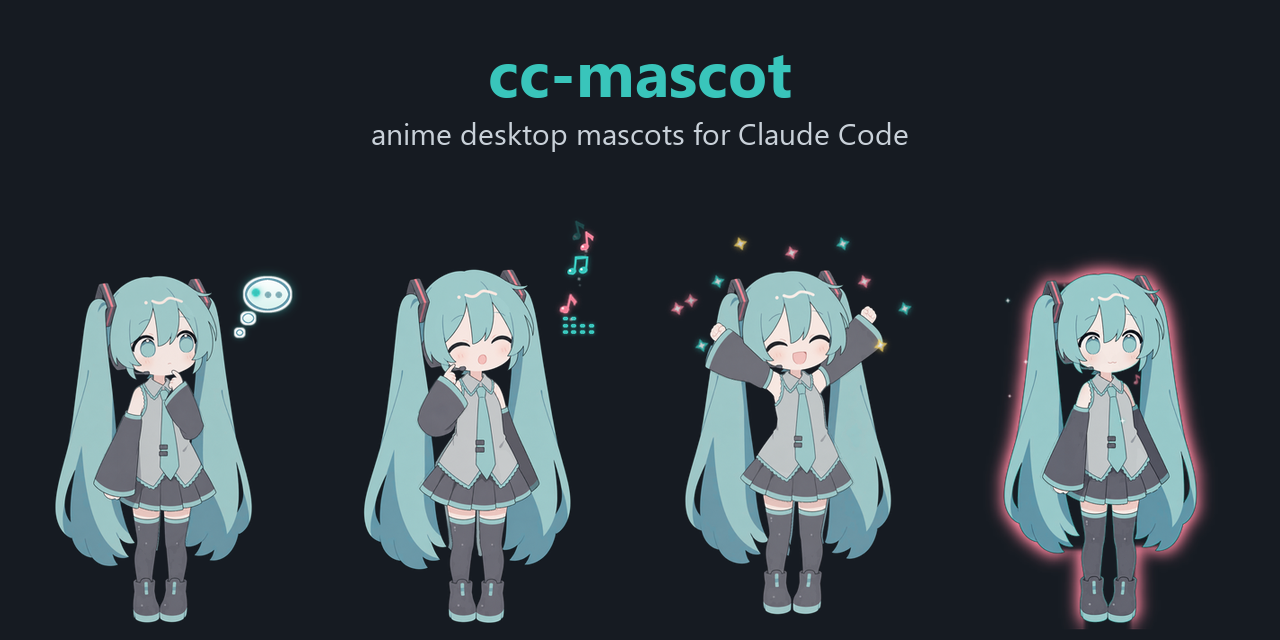
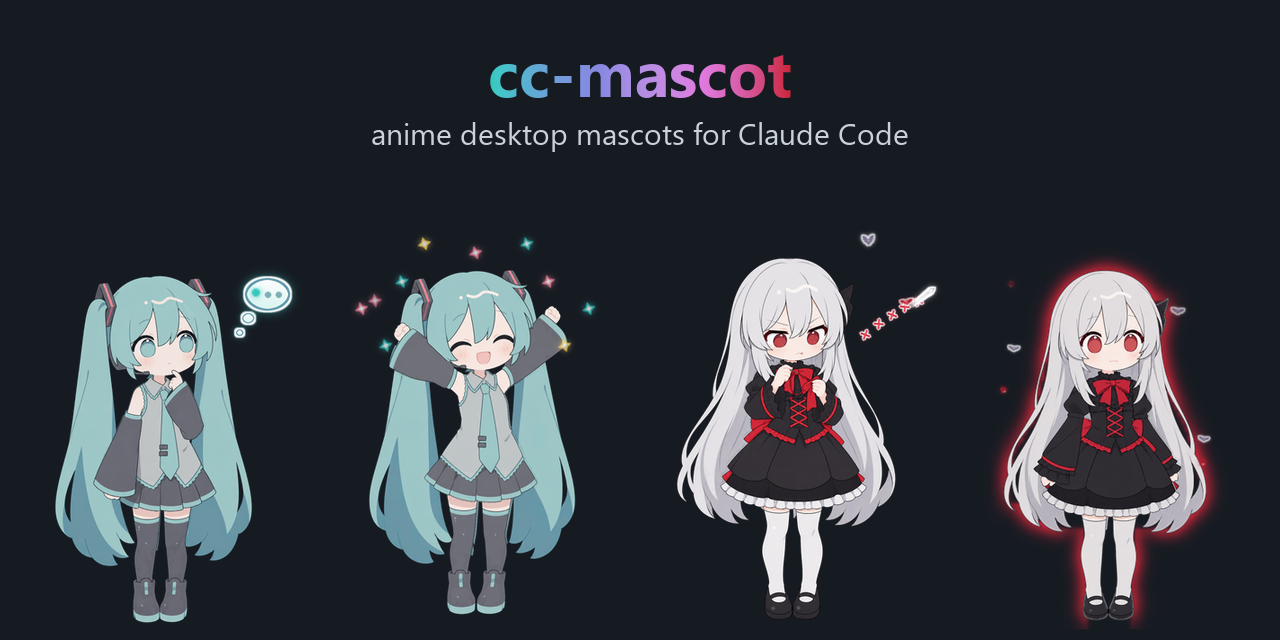
Social preview: Miku and Yunseul together, the title teal into crimson

diff --git a/docs/make_gifs.py b/docs/make_gifs.py
@@ -162,18 +162,31 @@ def status():
         save(f"status-{name}.gif", [flatten(im, 0.5, size) for im in images])
 
 
+def use_character(name):
+    """Draws `name` from now on: her frames, look and sprites."""
+    global FRAMES, SPRITES
+    FRAMES = os.path.join(MASCOT, "frames", name)
+    with open(os.path.join(FRAMES, THEME_FILE), encoding="utf-8") as f:
+        fx.use(fx.look_of(json.load(f)))
+    _frames.clear()
+    SPRITES = fx.build_sprites(HEIGHT)
+
+
 def social():
-    """GitHub's social preview (1280x640): the title over four of her moods.
-    Uploaded by hand: Settings, General, Social preview."""
+    """GitHub's social preview (1280x640): the title, teal into crimson,
+    over two of Miku's moods and two of Yunseul's. Uploaded by hand:
+    Settings, General, Social preview."""
     from PIL import ImageDraw, ImageFont
 
+    from settings_window import blend
+
     no_tag = Image.new("RGBA", (1, 1), (0, 0, 0, 0))
-    shots = [
-        render("thinking", 101.3, 1.3, tag=no_tag),
-        render("working", 102.0, 2.0, tag=no_tag),
-        render("happy", 100.6, 0.6, tag=no_tag),
-        render("idle", 200.4, 5.4, status=fx.Status(2), tag=no_tag),
-    ]
+    shots = []
+    for name, moods in (("miku", [("thinking", 101.3, 1.3, fx.CALM), ("happy", 100.6, 0.6, fx.CALM)]),
+                        ("yunseul", [("working", 102.0, 2.0, fx.CALM), ("idle", 200.4, 5.4, fx.Status(2))])):
+        use_character(name)
+        shots += [render(mood, t, age, status=status, tag=no_tag) for mood, t, age, status in moods]
+    use_character(CHARACTER)
     card = Image.new("RGBA", (1280, 640), BACKDROP + (255,))
     scale = 0.9
     shots = [s.resize((round(s.width * scale), round(s.height * scale)), Image.LANCZOS) for s in shots]
@@ -182,11 +195,19 @@ def social():
     for s in shots:
         card.alpha_composite(s, (x, card.height - s.height - 8))
         x += s.width + gap
-    draw = ImageDraw.Draw(card)
+    # The title, from Miku's teal around the color wheel to Yunseul's crimson.
     title = ImageFont.truetype("segoeuib.ttf", 64)
+    mask = Image.new("L", card.size, 0)
+    ImageDraw.Draw(mask).text((card.width // 2, 70), "cc-mascot", font=title, fill=255, anchor="mm")
+    left, _, right, _ = mask.getbbox()
+    ramp = Image.new("RGBA", card.size)
+    for column in range(left, right):
+        color = blend((57, 197, 187), (202, 39, 57), (column - left) / max(1, right - left - 1))
+        ramp.paste(color + (255,), (column, 0, column + 1, card.height))
+    card.paste(ramp, (0, 0), mask)
     sub = ImageFont.truetype("segoeui.ttf", 30)
-    draw.text((card.width // 2, 70), "cc-mascot", font=title, fill=fx.MAIN, anchor="mm")
-    draw.text((card.width // 2, 132), "anime desktop mascots for Claude Code", font=sub, fill=(201, 209, 217), anchor="mm")
+    ImageDraw.Draw(card).text((card.width // 2, 132), "anime desktop mascots for Claude Code", font=sub,
+                              fill=(201, 209, 217), anchor="mm")
     path = os.path.join(OUT, "social-preview.png")
     card.convert("RGB").save(path, optimize=True)
     print(f"social-preview.png: {os.path.getsize(path) // 1024} KB")
